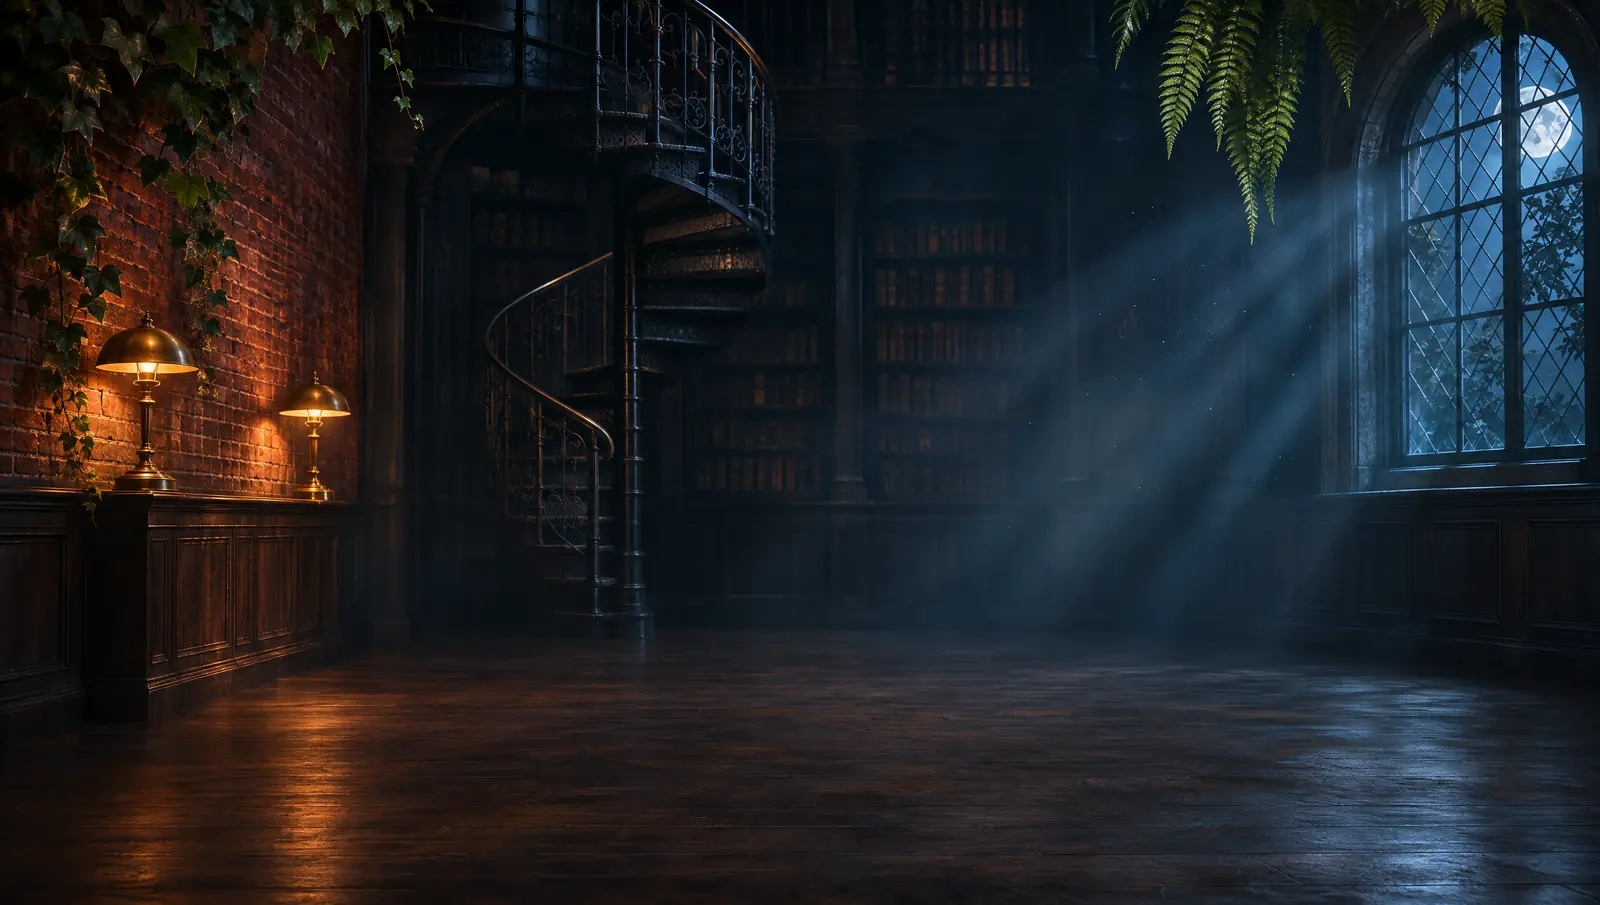
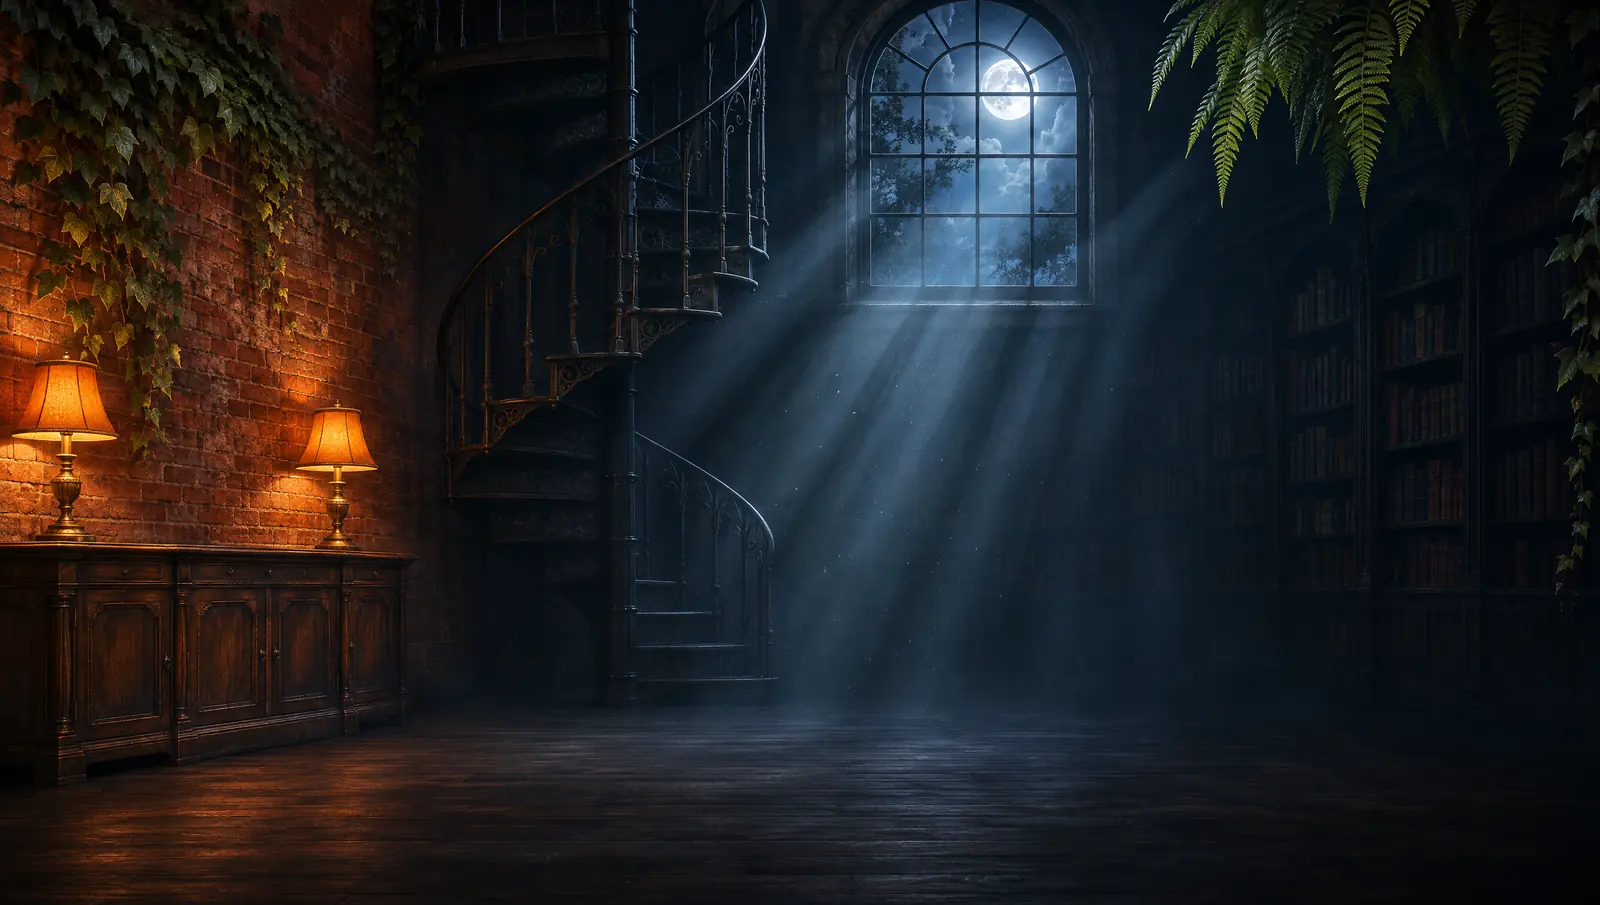
The Stacks: a new room picture that matches the owner's design
The arched window is high in the middle of the back wall with its shafts
of light; the brick wall, ivy and two lamps are at the left, the spiral
staircase between them, ferns at the top right. Same four files, sizes
and about the same weight. The 3D moonlight comes from that window.

Claude-Session: https://claude.ai/code/session_0163CSD8QhYbwsdDuDd51Fou

diff --git a/js/stacks3d/index.js b/js/stacks3d/index.js
@@ -235,8 +235,8 @@ export async function mount(opts) {
   /* ---------- Lights ---------- */
   const hemi = new THREE.HemisphereLight(0x99a1b3, 0x3a2e24, 0.8);
   scene.add(hemi);
-  const moon = new THREE.DirectionalLight(0x8fb0ff, 2.1); // the window: cool rim light on the right-hand edges
-  moon.position.set(3.4, 2.4, -0.6); scene.add(moon); scene.add(moon.target);
+  const moon = new THREE.DirectionalLight(0x8fb0ff, 2.1); // the window, high in the middle of the back wall (the room picture of 18 Nov 2026): cool light from above and a little to the right
+  moon.position.set(2.0, 3.0, -0.8); scene.add(moon); scene.add(moon.target);
   const key = new THREE.SpotLight(0xffe6d0, 6.5, 0, 0.62, 0.8, 2); // the lamps' warmth, from the left
   key.position.set(-1.1, 2.6, 2.1);
   scene.add(key); scene.add(key.target);

diff --git a/CHANGELOG.md b/CHANGELOG.md
@@ -82,6 +82,7 @@ Gatecast has no tagged releases yet. `package.json` has said `1.0.0` since the f
     - The Book of the Week can be clicked anywhere on its cover: the empty parts of the controls' boxes, which overlap the frame's headroom, let the click through.
     - The search field's example fits; the library card is no taller than the hero text; the title is mottled pewter instead of pinstripes; Surprise me is a duller brass plate with notched corners; the boards are straighter and greyer and the plate lettering darker.
     - The design's unit is `min(1vw, 1.5svh)`, so a 965px-high laptop window shows the whole first row of books.
+  - The room picture is new (owner request, 18 Nov 2026: "generate the new background to match the design"): the arched window high in the middle of the back wall with its shafts of light, the brick wall and ivy at the left with two lamps on the sideboard, the spiral staircase between them, ferns at the top right. Generated for Gatecast, in the four sizes the page already loads (`assets/stacks/room-desktop-{1600,2560}.webp`, `room-phone-{720,1080}.webp`, the same dimensions and about the same weight). The 3D moonlight now comes from that window.
 
 - **A healthier weird-news mix** (owner request, 17 Nov 2026: "not only UPI"). On 17 Nov UPI had 11 of the 21 stories, 8 of them stacked at the top of the feed stories.
   - Order (`lib/weird.js` `mixOutlets`, `LIMITS.bandsMs` and `LIMITS.mix`): after the editor's picks, which stay on top and untouched, feed stories are interleaved by outlet within freshness bands (under 2 days, 2–7, 7–14, older), each outlet's strangest story first, without the same outlet twice in a row when another fresh story fits; no outlet may take more than 3 of the first 12 feed stories or 10 of the first 30 while other outlets have stories. The category filter and limits work as before on the mixed order.
